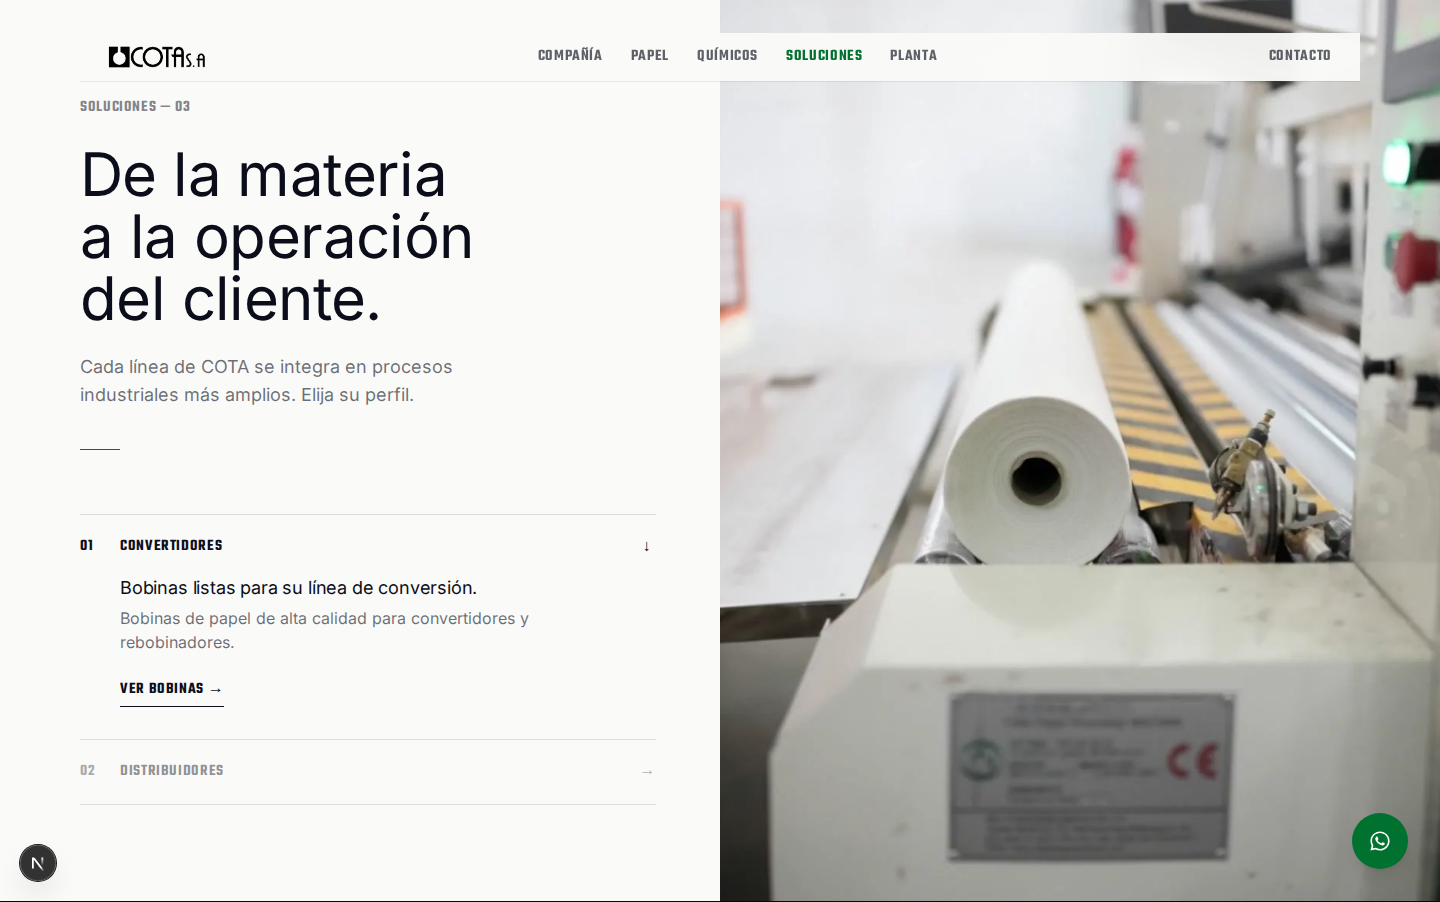
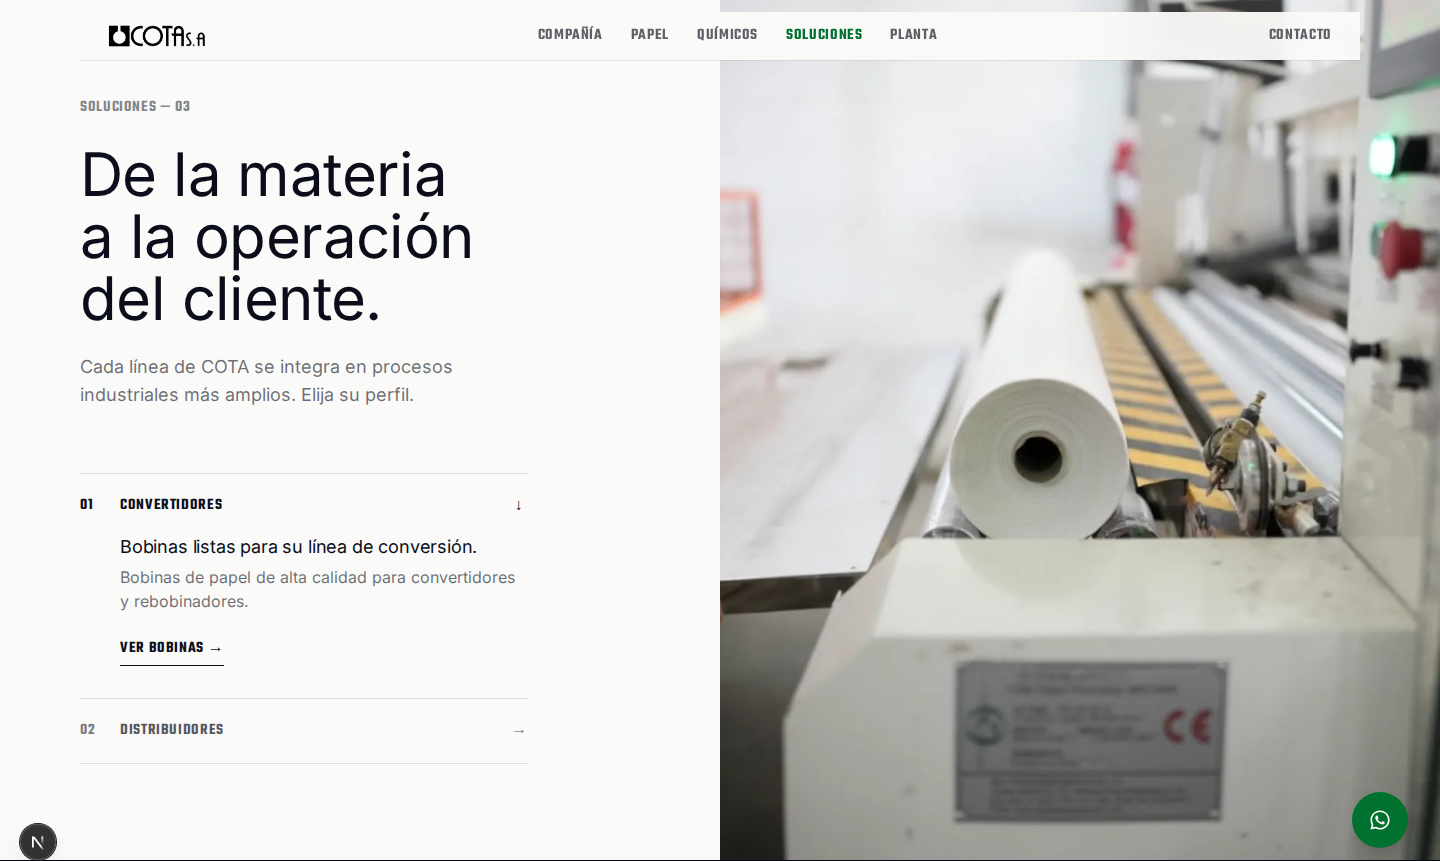
1

diff --git a/components/sections/SolutionsByApplication.tsx b/components/sections/SolutionsByApplication.tsx
@@ -68,17 +68,16 @@ export default function SolutionsByApplication() {
   // apila todo a la vez. Mismos textos que antes.
   return (
     <section id="soluciones" className="relative grid w-full grid-cols-1 bg-paper md:grid-cols-2">
-      <div className="flex w-full flex-col justify-between gap-16 px-5 py-20 md:ml-auto md:max-w-[720px] md:py-24 md:pl-12 md:pr-16 md:min-h-[40rem] min-[1440px]:pl-20!">
+      <div className="flex w-full flex-col justify-center px-5 py-20 md:ml-auto md:max-w-[720px] md:py-24 md:pl-12 md:pr-16 md:min-h-[40rem] min-[1440px]:pl-20!">
         <div>
           <span className="font-label mb-6 block text-ink/50">Soluciones — 03</span>
-          <h2 className="text-display max-w-xl text-ink">De la materia a la operación del cliente.</h2>
+          <h2 className="text-display max-w-md text-ink">De la materia a la operación del cliente.</h2>
           <p className="mt-6 max-w-md text-base text-ink/60 md:text-lg">
             Cada línea de COTA se integra en procesos industriales más amplios. Elija su perfil.
           </p>
-          <span aria-hidden className="mt-10 block h-px w-10 bg-green" />
         </div>
 
-        <ul className="flex flex-col border-b border-line-on-light">
+        <ul className="mt-12 flex max-w-md flex-col border-b border-line-on-light md:mt-16">
           {SEGMENTS.map((seg, i) => {
             const isActive = activeId === seg.id;
             return (
@@ -88,12 +87,12 @@ export default function SolutionsByApplication() {
                   aria-expanded={isActive}
                   className="group grid w-full grid-cols-[2.5rem_1fr_auto] items-baseline py-5 text-left"
                 >
-                  <span className={`font-label ${isActive ? "text-ink" : "text-ink/35"}`}>
+                  <span className={`font-label ${isActive ? "text-ink" : "text-ink/55"}`}>
                     {String(i + 1).padStart(2, "0")}
                   </span>
                   <span
                     className={`font-label transition-colors ${
-                      isActive ? "text-ink" : "text-ink/45 group-hover:text-ink"
+                      isActive ? "text-ink" : "text-ink/70 group-hover:text-ink"
                     }`}
                   >
                     {seg.label}
@@ -101,7 +100,7 @@ export default function SolutionsByApplication() {
                   <span
                     aria-hidden
                     className={`font-label transition-transform duration-300 ${
-                      isActive ? "rotate-90 text-ink" : "text-ink/35"
+                      isActive ? "rotate-90 text-ink" : "text-ink/55 group-hover:text-ink"
                     }`}
                   >
                     →
